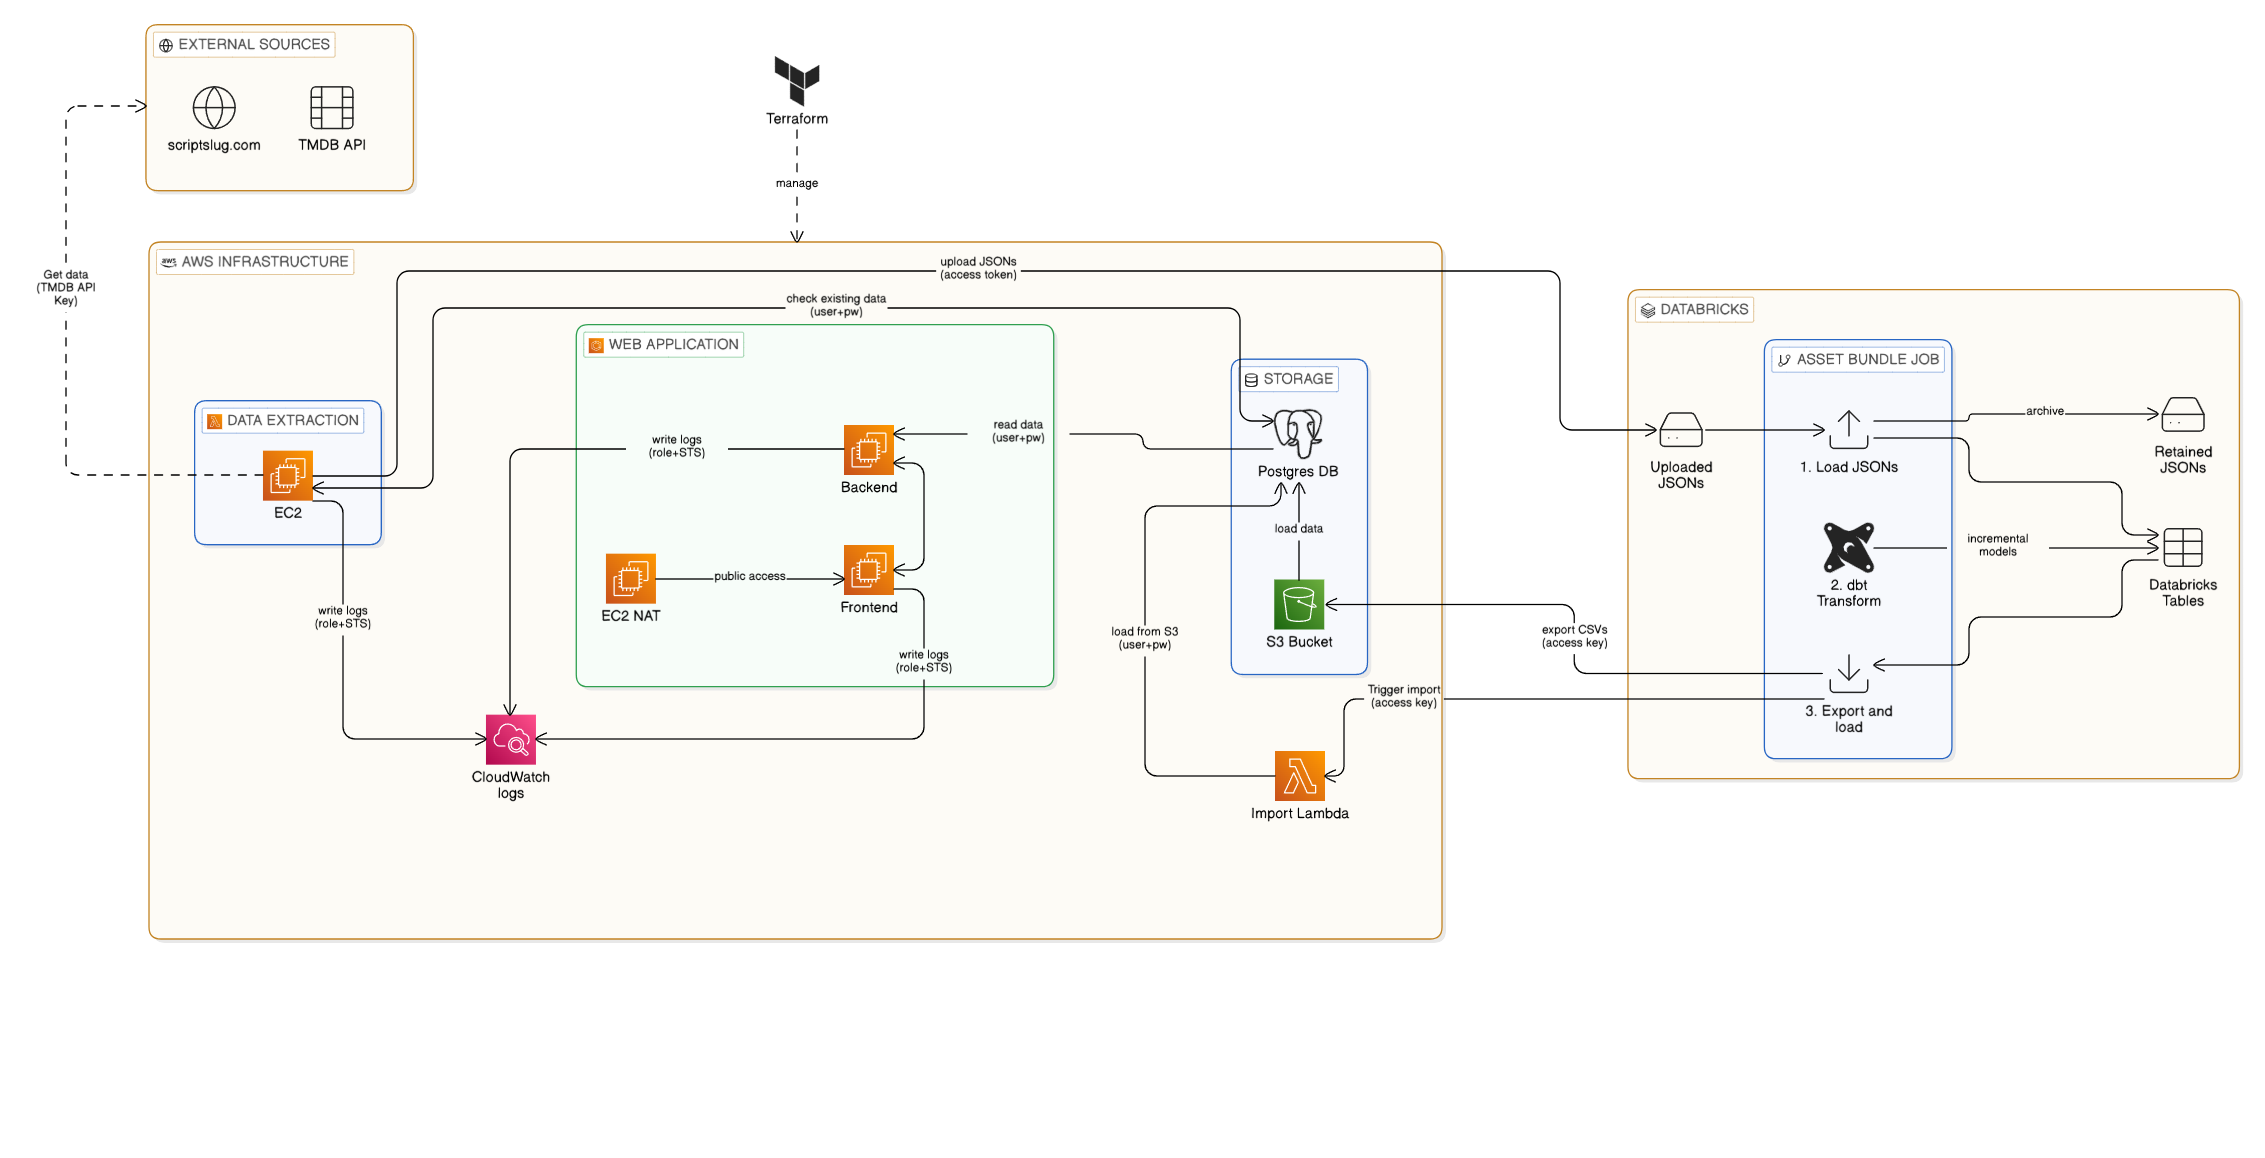
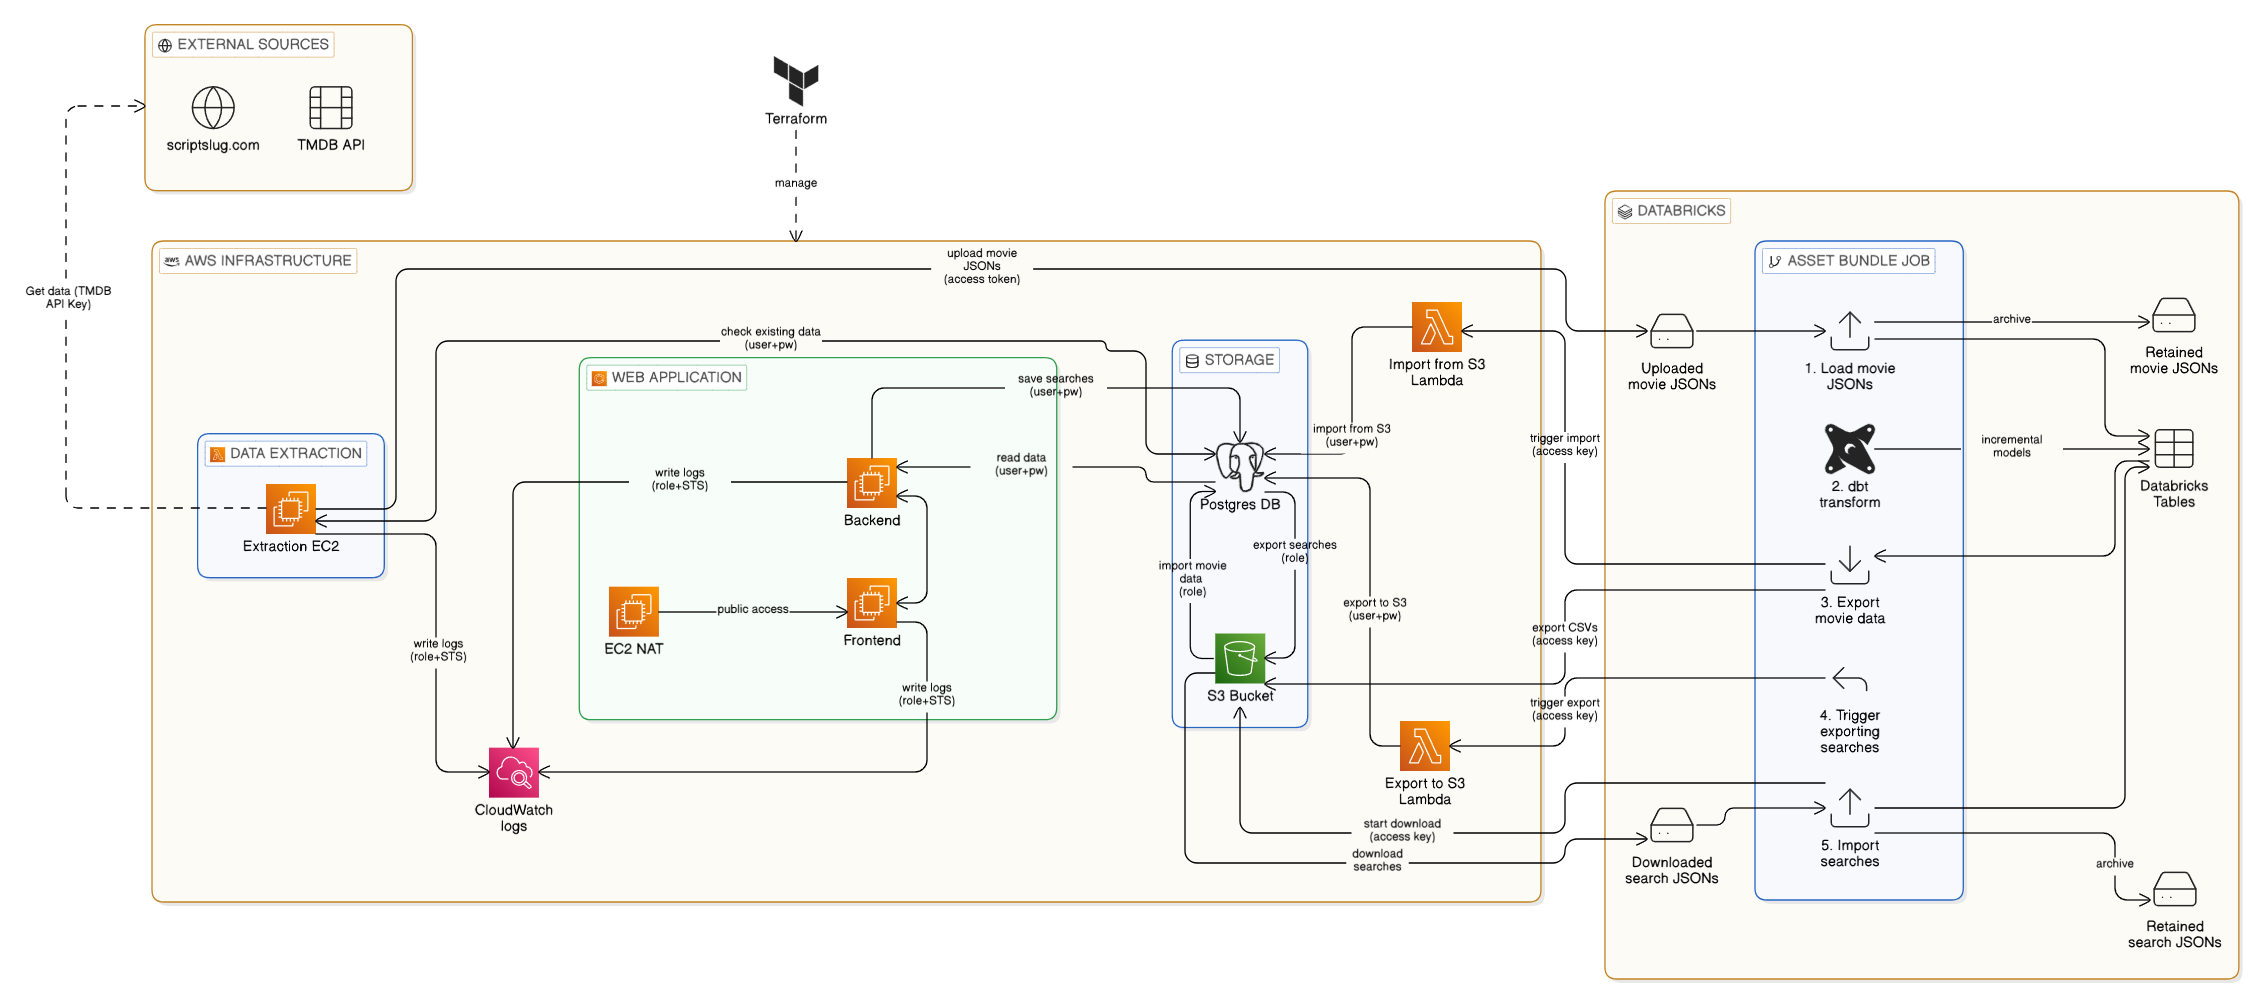
Update README and architecture image

diff --git a/README.md b/README.md
@@ -28,14 +28,18 @@ added movies too. Logs are written to CloudWatch.
 We have a Databricks asset bundle with a job that transforms the uploaded data, moves the transformed data as CSV files to S3, then loads them into the Postgres db via
 a Lambda function.
 The uploaded JSON files are retained in a separate volume.
+The job also triggers another Lambda function that exports the searches from the Postgres db as JSON files to S3, which are then loaded into Databricks and transformed
+via dbt models.
+These JSON files are also retained in a separate volume.
 
 ## Storage
 
-An S3 bucket is used to store the temporary CSV files that are loaded into the Postgres db.
+An S3 bucket is used to store the temporary CSV files that are loaded into the Postgres db and the JSON files exported from it.
 
 ## Web application
 
-Backend and frontend run on EC2 instances. An EC2 NAT instance is used to make the website publicly accessible. Backend gets data from the Postgres db.
+Backend and frontend run on EC2 instances. An EC2 NAT instance is used to make the website publicly accessible. Backend gets data from the Postgres db and saves
+the searches there.
 Logs are written to CloudWatch.
 
 
@@ -59,12 +63,13 @@ This role is used to create the infrastructure, and it has only those permission
 
 #### Infrastructure
 
-There are multiple values we can change here, see _terraform/infrastructure/variables.tf_ for details. The following variables are set based on GitHub repository variables (see below):
+There are multiple values we can change here, see _terraform/infrastructure/variables.tf_ for details. The following variables are set based on GitHub repository variables/secrets (see below):
 
 - pg_database
 - pg_user
 - pg_password
 - deploy_backend_and_frontend
+- my_ip_cidr
 
 ## Github
 
@@ -97,6 +102,6 @@ Default values:
 
 - catalog_name: _movies_
 - schema_name: _default_
-- bronze_schema_name: _bronze_ (the uploaded JSON files are loaded into the _bronze\_json\_movies_ table inside this schema)
+- bronze_schema_name: _bronze_ (the uploaded movie JSON files are loaded into the _bronze\_json\_movies_ table, the uploaded search JSON files are loaded into the _bronze\_searches_ table inside this schema)
 
 We can also set the schedule for the asset bundle job here. By default, it runs once a day.